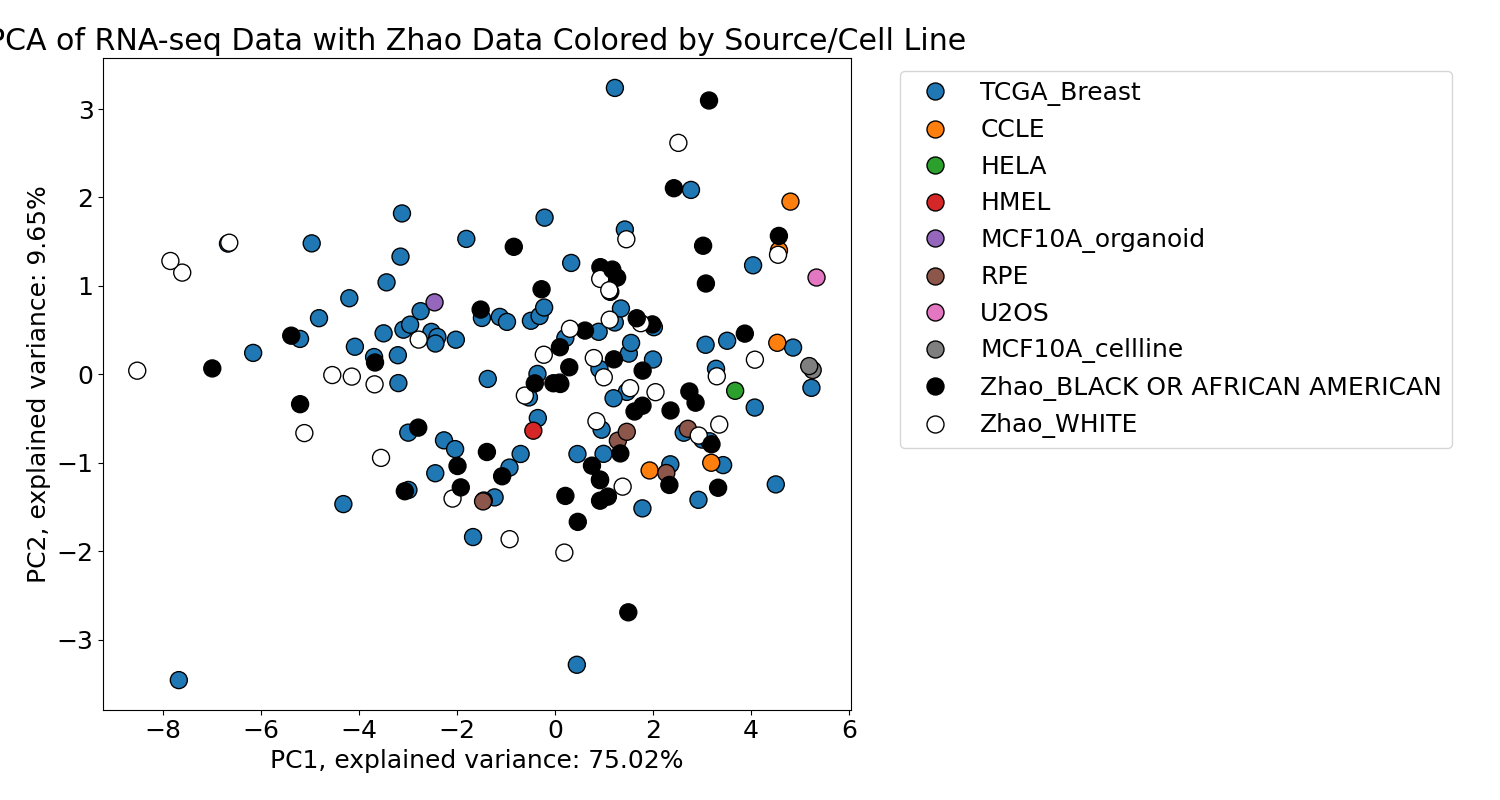
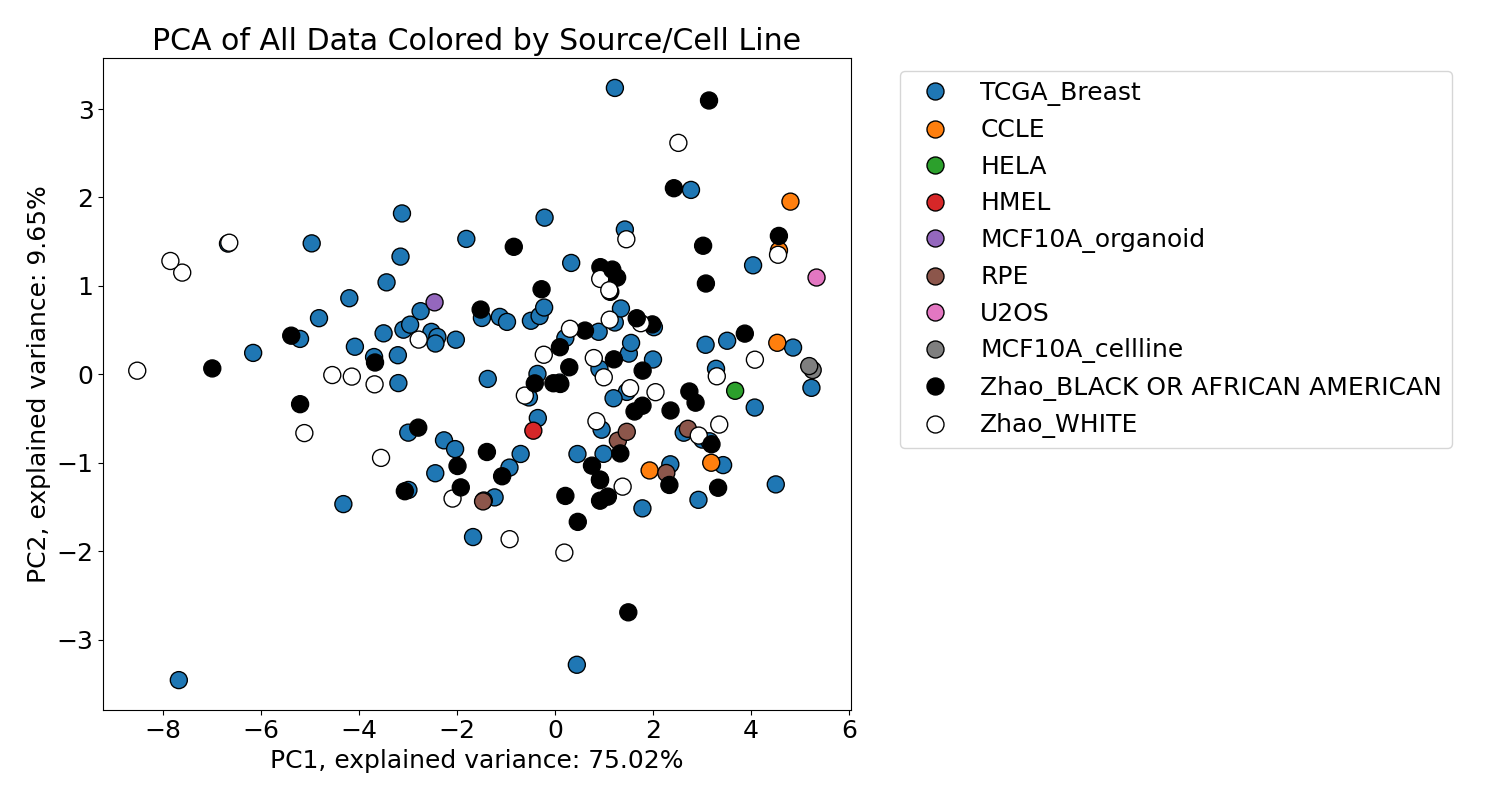
pca with zhao data

Changed region(s): [[0.0, 0.0312, 0.644, 0.0625]]

diff --git a/1_rna_analysis/rnaseq_clustering.py b/1_rna_analysis/rnaseq_clustering.py
@@ -295,7 +295,16 @@ plt.xlabel("PC1, explained variance: {:.2f}%".format(
     pca.explained_variance_ratio_[0] * 100))
 plt.ylabel("PC2, explained variance: {:.2f}%".format(
     pca.explained_variance_ratio_[1] * 100))
-plt.title("PCA of RNA-seq Data with Zhao Data Colored by Source/Cell Line")
+plt.title("PCA of All Data Colored by Source/Cell Line")
 plt.tight_layout()
-plt.savefig("./figures/rnaseq_pca_with_zhao_plot.png")
+plt.savefig("./figures/rnaseq_pca_alldata_fitbyprevious.png")
+# %%
+# reformat for Pinferna
+combined_with_zhao = np.exp(combined_with_zhao.drop(
+    "tissue_type", axis=1) - 1)  # reverse log1p
+combined_with_zhao = combined_with_zhao.transpose()
+combined_with_zhao.index.name = 'GeneSymbol'
+combined_with_zhao.to_csv(
+    './data/rnaseq_network_genes_alldata_for_pinferna.csv')
+
 # %%
